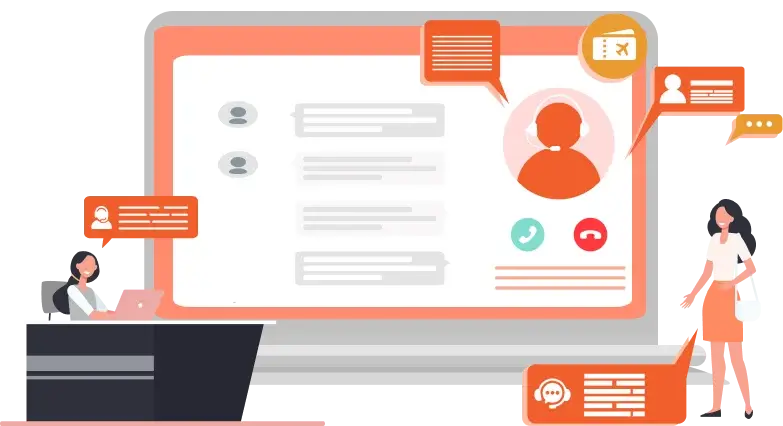
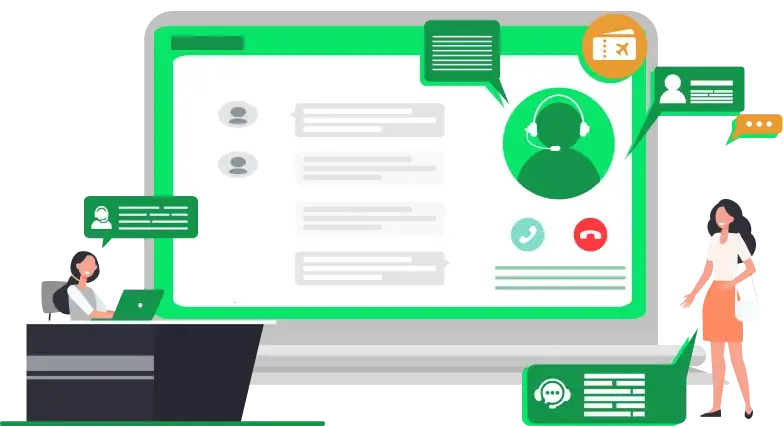
changes

diff --git a/components/NgoNonProfits/NgoNonProfitsBanner/NgoNonProfitsBanner.module.css b/components/NgoNonProfits/NgoNonProfitsBanner/NgoNonProfitsBanner.module.css
@@ -1,0 +1,93 @@
+.instagramDmBannerMain{
+    display: flex;
+    height: 100vh;
+    /* border: 2px solid red; */
+}
+.instagramDmBannerimg{
+    width: 50%;
+    height: 450px;
+    margin-top: 10%;
+
+}
+.instagramDmBannertext{
+    margin-top: 17%;
+    width: 50%;
+}
+.instagramDmBannertext>hr{
+    width: 80%;
+}
+.instagramDmBannertext>h1{
+    font-weight: 700;
+    font-size: 40px;
+}
+.instagramDmBannertext>p{
+    width: 80%;
+    font-weight: 400;
+    font-size: 20px;
+}
+.instagramDmBannertext>button{
+    padding: 10px 30px;
+        font-size: 18px;
+        font-weight: 600;
+        margin-top: 4%;
+        border-radius: 15px;
+        background-color: #ef4c23;
+        border: none;
+        color: white;
+        cursor: pointer;
+}
+.instagramDmBannertext>button:hover{
+    background-color: white;
+    color: #ef4c23;
+    border: 1px solid #ef4c23;
+    box-shadow: rgba(0, 0, 0, 0.24) 0px 3px 8px;
+}
+
+@media only screen and (min-width:0px) and (max-width:600px){
+    .instagramDmBannerMain{
+        display: flex;
+        flex-direction: column;
+        height: 100vh;
+        
+    }
+    .instagramDmBannerimg{
+        width: 70%;
+        height: 450px;
+        margin-top: 10%;
+        margin-left: 14%;
+    }
+    .instagramDmBannertext{
+        margin-top: 17%;
+        margin-left: 10%;
+        width: 90%;
+    }
+    .instagramDmBannertext>hr{
+        width: 80%;
+    }
+    .instagramDmBannertext>h1{
+        font-weight: 700;
+        font-size: 35px;
+    }
+    .instagramDmBannertext>p{
+        width: 90%;
+        font-weight: 400;
+        font-size: 20px;
+    }
+    .instagramDmBannertext>button{
+        padding: 10px 30px;
+            font-size: 18px;
+            font-weight: 600;
+            margin: 4% 0% 4% 17%;
+            border-radius: 15px;
+            background-color: #ef4c23;
+            border: none;
+            color: white;
+            cursor: pointer;
+    }
+    .instagramDmBannertext>button:hover{
+        background-color: white;
+        color: #ef4c23;
+        border: 1px solid #ef4c23;
+        box-shadow: rgba(0, 0, 0, 0.24) 0px 3px 8px;
+    }
+}

diff --git a/pages/market-place/index.js b/pages/market-place/index.js
@@ -3,15 +3,41 @@ import { MarketPlaceCollections } from "../../components/MarketPlace/MarketPlace
 import { MarketPlaceFeature } from "../../components/MarketPlace/MarketPlaceFeature/MarketPlaceFeature";
 import { MarketPlaceNewly } from "../../components/MarketPlace/MarketPlaceNewly/MarketPlaceNewly";
 import { MarketPlacePopular } from "../../components/MarketPlace/MarketPlacePopular/MarketPlacePopular";
+import Navbar from "../../components/Navbar/Navbar";
+import LifeBottomFunnel from "../../components/ProductsNewPage/LifeBottomFunnel/LifeBottomFunnel";
+import { ProductsFooter } from "../../components/ProductsNewPage/ProductsFooter/ProductsFooter";
+import ReadyStarted from "../../components/ProductsNewPage/ReadyStarted/ReadyStarted";
+import { TalentProfiles } from "../../components/ProductsNewPage/TalentProfiles/TalentProfiles";
+import Testimonial from "../../components/ProductsNewPage/Testimonial/Testimonial";
+import TrustedBy from "../../components/TrustedByProductsPage/TrustedBy";
 
 export default function MarketPlace() {
     return ( 
     <div>
+      
+      <Navbar
+        productMount={{
+          navMount: true,
+        }}
+        navredux={{
+          color: "black",
+          logo: false,
+        }}
+      />
+  
   <MarketPlaceBanner/>
   <MarketPlaceFeature/>
   <MarketPlacePopular/>
   <MarketPlaceNewly/>
   <MarketPlaceCollections/>
+
+      <Testimonial/>
+      <TrustedBy/>
+
+      <ReadyStarted/>
+      <TalentProfiles/>
+      <LifeBottomFunnel/>
+      <ProductsFooter/>
     </div>
     )
 }

diff --git a/pages/customer-spotlight/index.js b/pages/customer-spotlight/index.js
@@ -1,13 +1,38 @@
 import { CaseStudy } from "../../components/CustomerSpotlight/CaseStudy/CaseStudy";
 import { CustomerSpotLightBanner } from "../../components/CustomerSpotlight/CustomerSpotlightBanner/CustomerSpotlightBanner";
 import { CustomerSpotlightDemo } from "../../components/CustomerSpotlight/CustomerSpotlightDemo/CustomerSpotlightDemo";
+import Navbar from "../../components/Navbar/Navbar";
+import LifeBottomFunnel from "../../components/ProductsNewPage/LifeBottomFunnel/LifeBottomFunnel";
+import { ProductsFooter } from "../../components/ProductsNewPage/ProductsFooter/ProductsFooter";
+import ReadyStarted from "../../components/ProductsNewPage/ReadyStarted/ReadyStarted";
+import { TalentProfiles } from "../../components/ProductsNewPage/TalentProfiles/TalentProfiles";
+import Testimonial from "../../components/ProductsNewPage/Testimonial/Testimonial";
+import TrustedBy from "../../components/TrustedByProductsPage/TrustedBy";
 
 export default function CustomerSpotlight() {
     return (
         <div>
+        <Navbar
+            productMount={{
+            navMount: true,
+            }}
+            navredux={{
+            color: "black",
+            logo: false,
+            }}
+        />
+
            <CustomerSpotLightBanner/>
            <CaseStudy/>
            <CustomerSpotlightDemo/>
+
+           <Testimonial/>
+           <TrustedBy/>
+
+            <ReadyStarted/>
+            <TalentProfiles/>
+            <LifeBottomFunnel/>
+            <ProductsFooter/>
         </div>
     )
 }

diff --git a/pages/ngo&nonprofits/index.js b/pages/ngo&nonprofits/index.js
@@ -1,0 +1,42 @@
+import React from "react";
+import Navbar from "../../components/Navbar/Navbar";
+import { ProductsNavbar } from "../../components/Navbar/ProductsNavbar/ProductsNavbar";
+import NgoNonProfitsBanner from "../../components/NgoNonProfits/NgoNonProfitsBanner/NgoNonProfitsBanner";
+import LifeBottomFunnel from "../../components/ProductsNewPage/LifeBottomFunnel/LifeBottomFunnel";
+import { ProductsFooter } from "../../components/ProductsNewPage/ProductsFooter/ProductsFooter";
+import ReadyStarted from "../../components/ProductsNewPage/ReadyStarted/ReadyStarted";
+import Testimonial from "../../components/ProductsNewPage/Testimonial/Testimonial";
+import TrustedBy from "../../components/TrustedByProductsPage/TrustedBy";
+
+
+export default function InstagramDm() {
+  return (
+    <div>
+    <Navbar
+        productMount={{
+          navMount: true,
+        }}
+        navredux={{
+          color: "black",
+          logo: false,
+        }}
+      />
+      
+      <ProductsNavbar
+        navproductredux={{
+          color: "black",
+          logo: false,
+        }}
+      />
+      
+      <NgoNonProfitsBanner/>
+     
+      
+      <Testimonial/>
+      <TrustedBy/>
+      <ReadyStarted/>
+      <LifeBottomFunnel/>
+      <ProductsFooter/>
+    </div>
+  );
+}

diff --git a/pages/all-industry/index.js b/pages/all-industry/index.js
@@ -3,7 +3,7 @@ import { AllIndustriesBanner } from "../../components/AllIndustries/AllIndustrie
 import { AllindustrycustomerDelight } from "../../components/AllIndustries/AllindustrycustomerDelight";
 import { Allindustryfooter } from "../../components/AllIndustries/Allindustryfooter";
 import Navbar from "../../components/Navbar/Navbar";
-import { SalesNavbar } from "../../components/Navbar/SalesNavbar/SalesNavbar";
+import { ProductsNavbar } from "../../components/Navbar/ProductsNavbar/ProductsNavbar";
 
 export default function Allindustry() {
   return (
@@ -18,12 +18,12 @@ export default function Allindustry() {
       logo: false,
     }}
   />
-  <SalesNavbar
-    navproductredux={{
-      color: "black",
-      logo: false,
-    }}
-  />
+      <ProductsNavbar
+        navproductredux={{
+          color: "black",
+          logo: false,
+        }}
+      />
 
       <AllIndustriesBanner />
       <AllindustrycustomerDelight />

diff --git a/components/NgoNonProfits/NgoNonProfitsBanner/NgoNonProfitsBanner.jsx b/components/NgoNonProfits/NgoNonProfitsBanner/NgoNonProfitsBanner.jsx
@@ -1,0 +1,26 @@
+import React from 'react'
+import styles from "./NgoNonProfitsBanner.module.css"
+import Image from 'next/image'
+
+export default function NgoNonProfitsBanner () {
+  return (
+    <div className={styles.instagramDmBannerMain}>
+        <div className={styles.instagramDmBannerimg}>
+        <Image
+          src={"/Images/InstagramDm/Group1.webp"}
+          alt={"img"}
+          width={"0"}
+          height={"0"}
+          sizes={"100vw"}
+          style={{ width: "100%", height: "100%", objectFit: "contain" }}
+        />
+        </div>
+        <div className={styles.instagramDmBannertext}>
+        <h1>Deliver delightfull experience on instagram</h1>
+            <hr></hr>
+            <p>Link multiple instagram Business accounts with Bottom Funnel and drive real-time conversations effortlessly</p>
+            <button>Explore Now</button>
+        </div>
+    </div>
+  )
+}

diff --git a/components/funnelDeskAutomation/automationBanner/AutomationBanner.module.css b/components/funnelDeskAutomation/automationBanner/AutomationBanner.module.css
@@ -4,11 +4,15 @@
     align-items: center;
     justify-content: space-evenly;
     padding: 30px 0;
+    /* border: 2px solid red; */
+    margin-top: 5%;
 }
 
 .AutomationBannerContainer>div {
     width: 45%;
     text-align: left;
+    margin-left: 8%;
+    /* border: 2px solid red; */
 }
 
 .AutomationBannerContainer>div>h1 {
@@ -44,7 +48,10 @@
     height: fit-content;
     width: 45%;
 }
-
+.funneldeskautomationImage{
+    width: 80%;
+    height: 80%;
+}
 /* media query for mobile and tablets */
 @media (max-width: 1024px) {
     .AutomationBannerContainer {

diff --git a/components/funnelDeskAutomation/automationBanner/AutomationBanner.jsx b/components/funnelDeskAutomation/automationBanner/AutomationBanner.jsx
@@ -11,6 +11,7 @@ export const AutomationBanner = () => {
         <button>Get started for free</button>
       </div>
       <span>
+        <div className={styles.funneldeskautomationImage}>
         <Image
           src="/Images/funneldeskAutomation/banner.webp"
           alt="Picture of the author"
@@ -19,6 +20,7 @@ export const AutomationBanner = () => {
           sizes={"100vw"}
           style={{ width: "100%", height: "100%" }}
         />
+        </div>
       </span>
     </div>
   );

diff --git a/components/funnelDeskRetailEcommerce/RetailTeam.jsx b/components/funnelDeskRetailEcommerce/RetailTeam.jsx
@@ -26,8 +26,8 @@ export const RetailTeam = () => {
       <div className={styles.retailteammainboxesrightboxforimage}>
         <div className={styles.retailteamboxrightforimageonly}>
           <img
-            src="/Images/Retail&ecommerce/Animations/animation4.png"
-            alt="Retail&ecommerce/Animations/animation4.png"
+            src="/Images/Retail&ecommerce/Rectangle 5086.webp"
+            alt="Retail&ecommerce/Rectangle 5086.webp"
           />
         </div>
       </div>

diff --git a/components/Travel-and-hospitality/Travelandhospitalitybanner.module.css b/components/Travel-and-hospitality/Travelandhospitalitybanner.module.css
@@ -24,7 +24,7 @@
     padding: 10px 50px;
     border-radius: 100px;
     width: fit-content;
-    background-color: #ef4c23;
+    background-color: #14944C;
     border: none;
     outline: none;
     box-shadow: rgba(0, 0, 0, 0.24) 0px 3px 8px;
@@ -36,7 +36,7 @@
   
   .travelandhospbanbutton:hover {
     background-color: white;
-   color: #ef4c23;
+   color: #14944C;
   }
 
 

diff --git a/components/AllIndustries/AllindustrycustomerDelight.jsx b/components/AllIndustries/AllindustrycustomerDelight.jsx
@@ -28,7 +28,7 @@ export const AllindustrycustomerDelight = () => {
             icon:"Images/Allindustries/Icons/Group 770901.webp",
             htxt:"TRAVEL & HOSPITALITY",
             stxt:"Empower travel agents to map delightful journeys for avoid travelers.",
-            link:"/"
+            link:"/funneldesk/solutions/travel-and-hospitality"
         },
 
         {

diff --git a/components/funnelDeskCom/funnelDeskBanner.module.css b/components/funnelDeskCom/funnelDeskBanner.module.css
@@ -2,7 +2,7 @@
   /* border: 1px solid black; */
   margin-top: 3%;
   width: 100%;
-  height: 100vh;
+  height: 85vh;
   display: flex;
   align-items: center;
   justify-content: space-between;
@@ -47,7 +47,7 @@
 
 .imagePart {
   width: 40%;
-  background-color: #ef4c23;
+  background-color: #b3eecd;
   height: fit-content;
   border-radius: 20px;
   display: flex;
